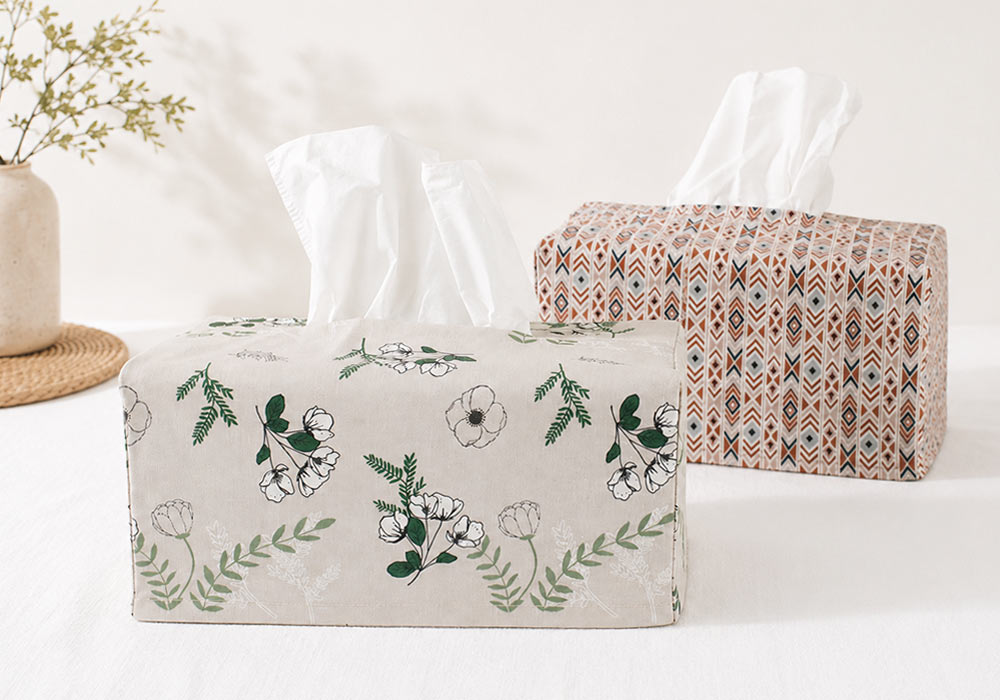
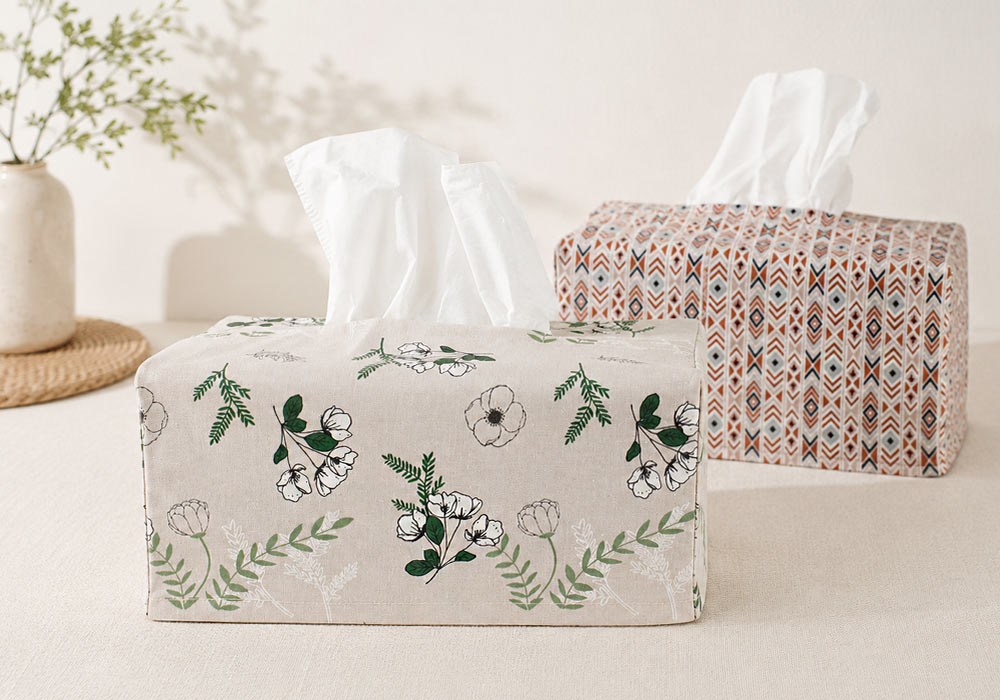
d

diff --git a/_posts/making-note/2026-04-18-tissue-cover.md b/_posts/making-note/2026-04-18-tissue-cover.md
@@ -14,38 +14,80 @@ image: "/assets/images/making-note/260418-tissue-cover-tutorial-main.jpg"      #
 
 ![A picture of the pouch]({{ site.kor_url }}/assets/images/making-note/260418-tissue-cover-tutorial-main.jpg)
 
-## 1단계: 안감과 겉감 재단하기
+## 1단계: 원단 재단하기
 
 ![A picture of the pouch]({{ site.kor_url }}/assets/images/making-note/260418-tissue-cover-tutorial-step01.jpg)
 
+원단을 재단합니다.
+
+각티슈 크기 (가로: 23.5cm, 세로 : 11.5cm, 높이 12cm 용)
+
+원단 재단 1 : 가로 25.5cm, 세로 22cm 2장<br>
+원단 재단 2 : 가로 13cm, 세로 15cm 2장
+
+원단은 2장을 겹쳐놓고 재단하면 편리합니다.
+
+각티슈는 제작사마다 조금씩 사이즈가 다릅니다.
+
+티슈커버 공식
+원단 재단 1 : 가로 (각티슈 가로 크기 + 1.6cm), 세로 (각티슈 세로/2 + 높이 + 4cm )
+원단 재단 2 : 가로 (각티슈 세로 + 1.6cm), 세로 (각티슈 높이 +2.8cm)
+---
+
+## 2단계 윗쪽 티슈 나오는 입구 만들기
+
 ![A picture of the pouch]({{ site.kor_url }}/assets/images/making-note/260418-tissue-cover-tutorial-step02.jpg)
+
+재단한 원단 중 큰 원단을 2장 겹쳐놓고 위에서 2cm 아래 부분에 사진처럼 선을 그어줍니다.<br>
+이때 티슈가 나오는 입구는 비워두고, 박음질 합니다.
+
+<br><br>
 
 ![A picture of the pouch]({{ site.kor_url }}/assets/images/making-note/260418-tissue-cover-tutorial-step03.jpg)
 
+위에서 박음질 한 부분을 1cm폭으로 접어서 다림질 하고, 사진과 같이 박음질 합니다.
+
 ![A picture of the pouch]({{ site.kor_url }}/assets/images/making-note/260418-tissue-cover-tutorial-step04.jpg)
+
+티슈 입구 박음질 한 부분이 사용하면서 터지지 않게 세로로 조금만 박음질하여 줍니다.
+
+---
+
+## 3단계 옆면 만들기
 
 ![A picture of the pouch]({{ site.kor_url }}/assets/images/making-note/260418-tissue-cover-tutorial-step05.jpg)
 
+옆면과 입구부분의 중앙을 맞추어서 시침핀을 꽂고 좌우에 0.8cm를 띄워놓고 박음질 합니다.
+
 ![A picture of the pouch]({{ site.kor_url }}/assets/images/making-note/260418-tissue-cover-tutorial-step06.jpg)
+
+옆면을 시침핀으로 고정합니다.<br>
+왼쪽 사진은 가위집을 냅니다. 이때 박음질 한 부분을 자르지 않도록 조심합니다.
+오른쪽 사진처럼 직각된 부분을 잘라냅니다.
 
 ![A picture of the pouch]({{ site.kor_url }}/assets/images/making-note/260418-tissue-cover-tutorial-step07.jpg)
 
+양쪽 모두 같은 방법으로 시침핀을 고정합니다
+
 ![A picture of the pouch]({{ site.kor_url }}/assets/images/making-note/260418-tissue-cover-tutorial-step08.jpg)
+
+사진과 같이 양쪽 모두 박음질 합니다.
 
 ![A picture of the pouch]({{ site.kor_url }}/assets/images/making-note/260418-tissue-cover-tutorial-step09.jpg)
 
+테두리를 오버록 처리해 줍니다.
+
+---
+
+## 4단계 밑면 마무리 하기
+
 ![A picture of the pouch]({{ site.kor_url }}/assets/images/making-note/260418-tissue-cover-tutorial-step10.jpg)
 
-원하는 크기보다 시접을 1cm 정도 여유 있게 남기고 잘라주세요. 
-원단의 무늬가 삐뚤어지지 않게 결을 맞추는 것이 중요합니다.
+밑면을 0.7cm 간격으로 2번 접어 올려서 시침핀으로 고정합니다. 이때 다림질하면서 작업해 주세요.
 
-## 2단계: 꼼꼼하게 재봉틀로 박음질하기
+밑면을 죽 돌아가며 박음질 합니다. 
 
-창구멍을 남기고 테두리를 박아줍니다. 모서리 부분은 가위집을 내주어야 뒤집었을 때 
-
-![A picture of the pouch]({{ site.kor_url }}/assets/images/making-note/pouch-001.jpg)
-
-![A picture of the pouch]({{ site.kor_url }}/assets/images/making-note/pouch-002.jpg)
+모두 완성 되었네요. 예쁘게 다림질 하고 각티슈에 씌워 보아요.
 
 
 